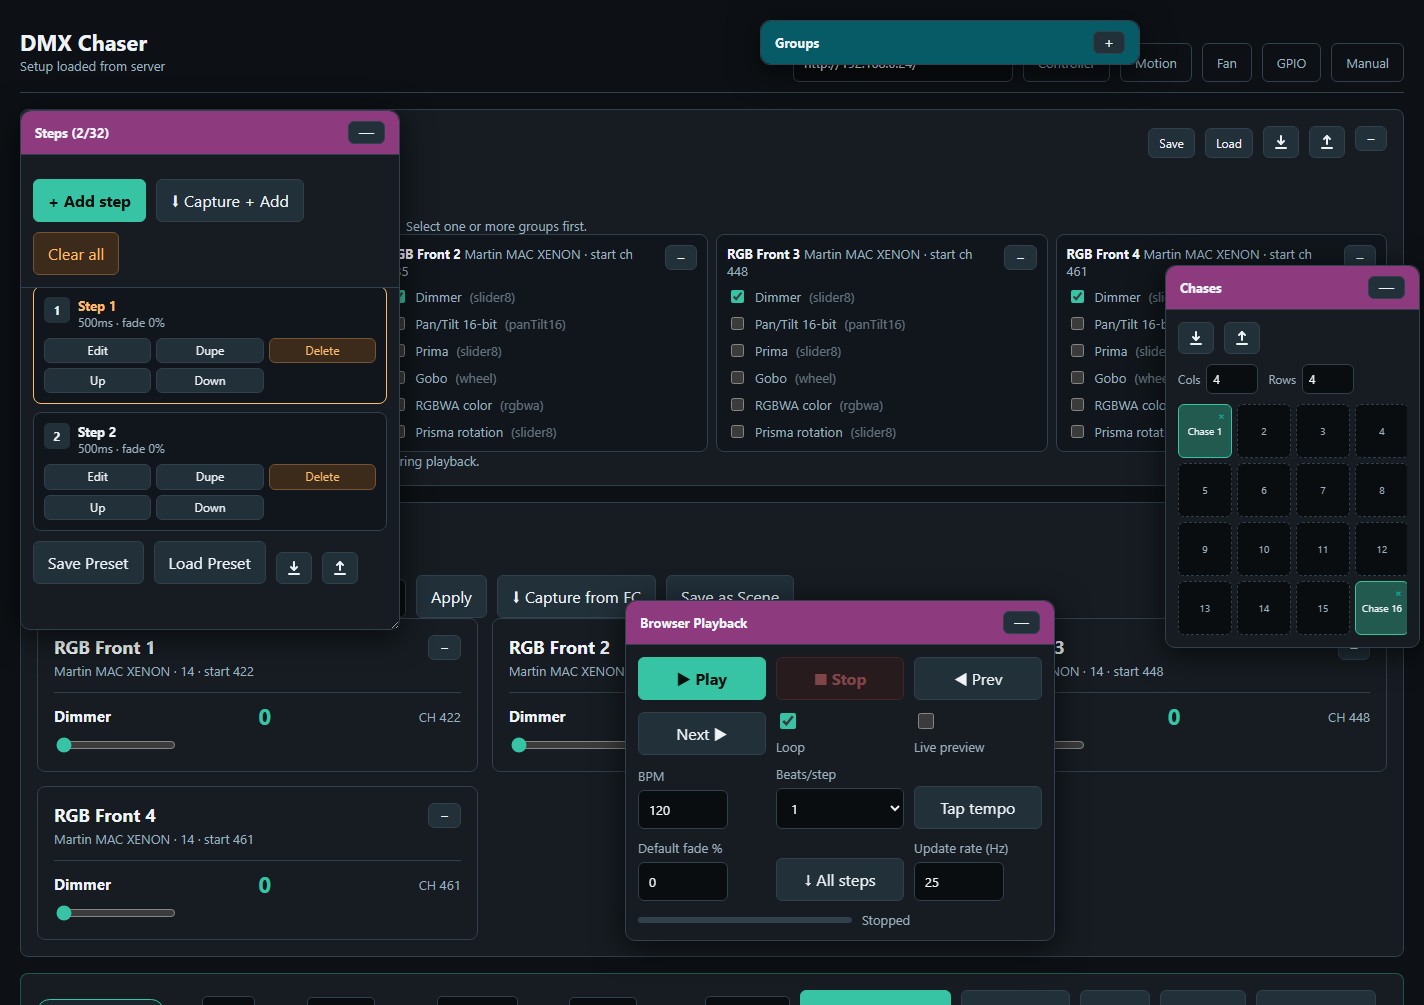
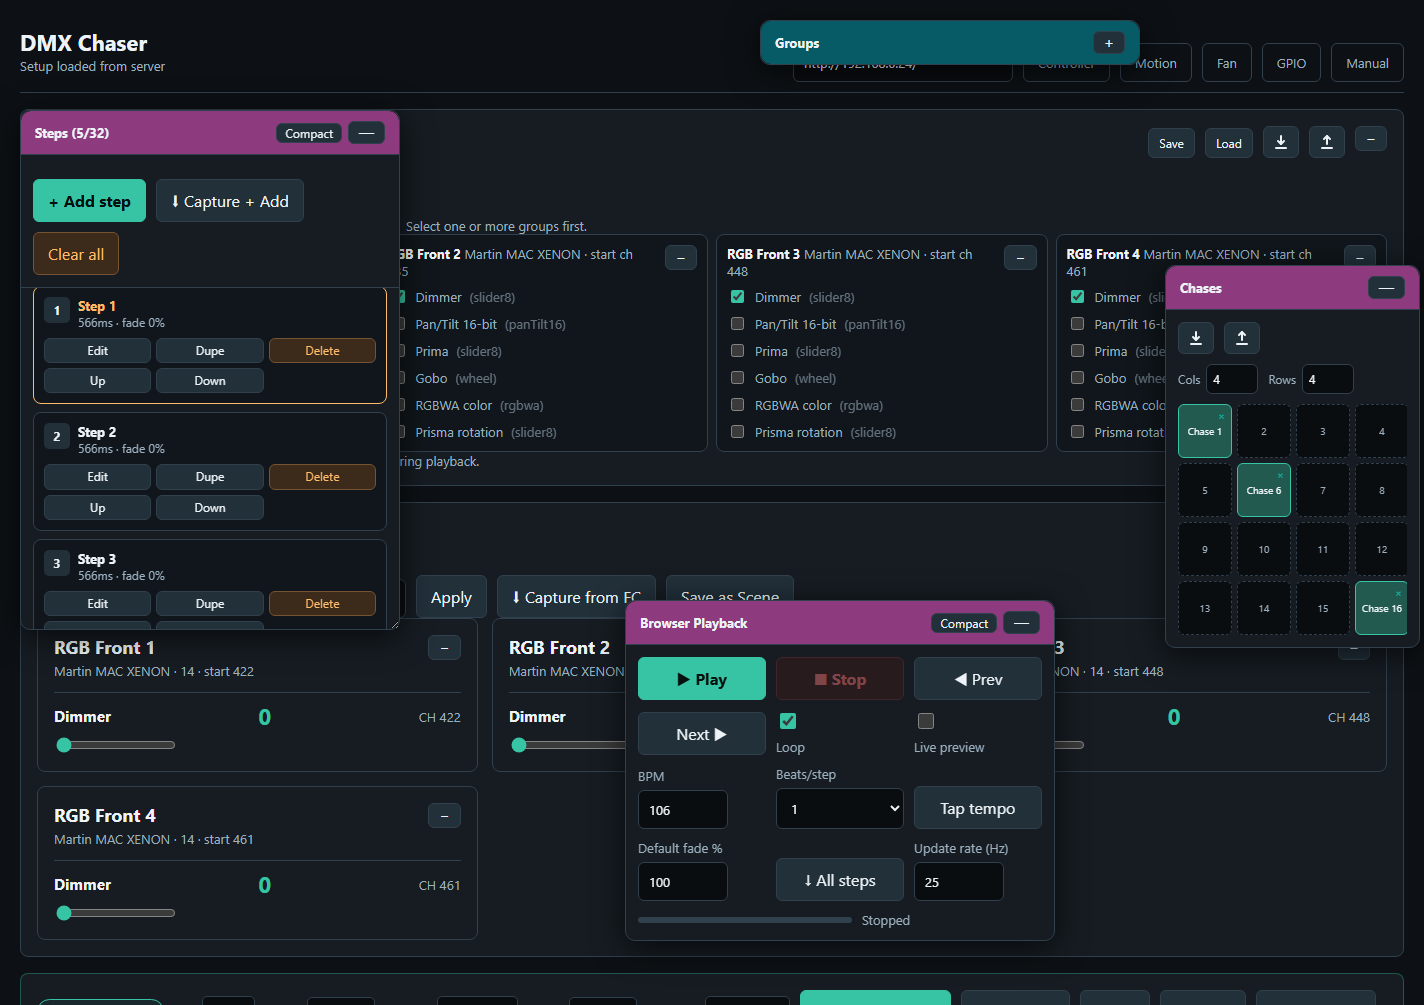
compact mode, update docu

diff --git a/web/dmx_chaser.html b/web/dmx_chaser.html
@@ -43,7 +43,7 @@ input[type=color]{width:44px;height:36px;padding:2px;background:#0a0d10;border:1
 #browserPlaybackBox .scene-toolbox__body{max-height:calc(100vh - 150px);overflow:auto}
 #browserPlaybackBox .toolbar{display:grid;grid-template-columns:repeat(auto-fit,minmax(120px,1fr));align-items:end}
 .chaser-toolbox-actions{display:flex;gap:6px;align-items:center}
-.chaser-collapse-all{padding:3px 8px;font-size:12px;line-height:1;min-width:32px}
+.chaser-collapse-all{padding:3px 8px;font-size:12px;line-height:1;min-width:64px}
 #participationList{display:grid;grid-template-columns:repeat(auto-fit,minmax(220px,1fr));gap:8px}
 #stepList{display:grid;grid-template-columns:repeat(auto-fit,minmax(220px,1fr));gap:8px}
 .progress-bar{height:6px;background:var(--line);border-radius:3px;overflow:hidden;flex:1}
@@ -137,7 +137,7 @@ input[type=color]{width:44px;height:36px;padding:2px;background:#0a0d10;border:1
     <div id="stepsBoxHdr" class="scene-toolbox__header">
       <span style="font-weight:700;font-size:13px">Steps (<span id="stepCount">0</span>/<span id="stepMax">32</span>)</span>
       <div class="chaser-toolbox-actions">
-        <button class="chaser-collapse-all" data-anchor-box="stepsBox" title="Toggle compact Steps and Browser Playback boxes">All</button>
+        <button class="chaser-collapse-all" data-anchor-box="stepsBox" title="Toggle compact layout for Steps and Browser Playback">Compact</button>
         <button id="stepsBoxToggle" class="scene-toolbox__toggle">—</button>
       </div>
     </div>
@@ -162,7 +162,7 @@ input[type=color]{width:44px;height:36px;padding:2px;background:#0a0d10;border:1
     <div id="browserPlaybackBoxHdr" class="scene-toolbox__header">
       <span style="font-weight:700;font-size:13px">Browser Playback</span>
       <div class="chaser-toolbox-actions">
-        <button class="chaser-collapse-all" data-anchor-box="browserPlaybackBox" title="Toggle compact Steps and Browser Playback boxes">All</button>
+        <button class="chaser-collapse-all" data-anchor-box="browserPlaybackBox" title="Toggle compact layout for Steps and Browser Playback">Compact</button>
         <button id="browserPlaybackBoxToggle" class="scene-toolbox__toggle">—</button>
       </div>
     </div>
@@ -1544,6 +1544,42 @@ function restoreChaserCompactState(saved){
   localStorage.removeItem('chaserCompactState');
   DmxCommon.saveUiState('chaser','chaserCompactState',null);
 }
+function exitChaserCompactModeWithCurrentLayout(){
+  let saved=null;
+  try{saved=JSON.parse(localStorage.getItem('chaserCompactState')||'null');}catch(_){}
+  if(!saved)return;
+  chaserCompactBoxes.forEach(cfg=>{
+    const box=document.getElementById(cfg.id);
+    if(!box)return;
+    saveToolboxPosition(cfg,{x:parseInt(box.style.left)||box.offsetLeft||0,y:parseInt(box.style.top)||box.offsetTop||0});
+    DmxCommon.saveUiState('chaser',cfg.collapsedKey,box.classList.contains('collapsed'));
+  });
+  localStorage.removeItem('chaserCompactState');
+  DmxCommon.saveUiState('chaser','chaserCompactState',null);
+}
+function moveOtherCompactBoxBelowOpened(openedId){
+  const openedCfg=chaserCompactBoxes.find(cfg=>cfg.id===openedId);
+  const otherCfg=chaserCompactBoxes.find(cfg=>cfg.id!==openedId);
+  const opened=document.getElementById(openedCfg?.id);
+  const other=document.getElementById(otherCfg?.id);
+  if(!opened||!other||!otherCfg)return;
+  const ar=opened.getBoundingClientRect();
+  const or=other.getBoundingClientRect();
+  if(!rectsOverlap(ar,or))return;
+  const gap=8;
+  let x=ar.left;
+  let y=ar.bottom+gap;
+  if(y+other.offsetHeight>window.innerHeight)y=ar.top-other.offsetHeight-gap;
+  const pos={
+    x:Math.max(0,Math.min(window.innerWidth-other.offsetWidth,Math.round(x))),
+    y:Math.max(0,Math.min(window.innerHeight-other.offsetHeight,Math.round(y)))
+  };
+  saveToolboxPosition(otherCfg,pos);
+}
+function exitChaserCompactModeAfterOpening(openedId){
+  moveOtherCompactBoxBelowOpened(openedId);
+  exitChaserCompactModeWithCurrentLayout();
+}
 function toggleChaserCompact(anchorId){
   let saved=null;
   try{saved=JSON.parse(localStorage.getItem('chaserCompactState')||'null');}catch(_){}
@@ -1564,6 +1600,17 @@ function toggleChaserCompact(anchorId){
   }
 }
 document.querySelectorAll('.chaser-collapse-all').forEach(btn=>btn.addEventListener('click',()=>toggleChaserCompact(btn.dataset.anchorBox)));
+['stepsBoxToggle','browserPlaybackBoxToggle'].forEach(toggleId=>{
+  const toggle=document.getElementById(toggleId);
+  if(!toggle)return;
+  toggle.addEventListener('click',()=>{
+    setTimeout(()=>{
+      const openedId=toggleId.replace('Toggle','');
+      const box=document.getElementById(openedId);
+      if(box&&!box.classList.contains('collapsed'))exitChaserCompactModeAfterOpening(openedId);
+    },80);
+  });
+});
 function initCompactPairDrag(){
   let drag=null;
   function compactActive(){

diff --git a/docs/user-manual-print.html b/docs/user-manual-print.html
@@ -270,7 +270,9 @@ strong { color: #ffffff; }
 <li><strong>Browser Playback</strong> runs the current chase from the browser for checking timing and fades before uploading to the Pico.</li>
 </ul>
 <p>Loading a chase from the <strong>Chases</strong> box updates the step list, participating controls, and the currently edited step together. If the chase contains steps, the participating controls are rebuilt from the values stored in the chase, so old fixture/group filters do not hide the controls used by that chase.</p>
-<p>The position, collapse state, and the Steps box size are stored by the server UI-state file, so the working layout survives reloads.</p>
+<p>The <strong>Compact</strong> button is only shown on <strong>Steps</strong> and <strong>Browser Playback</strong>. It switches those two boxes into a compact mode: the box whose <strong>Compact</strong> button was pressed stays in place, the other box is pulled next to it, and both boxes collapse to their headers. In compact mode, dragging either header moves both boxes together as one pair. Press <strong>Compact</strong> again to restore their previous positions and reopen both boxes.</p>
+<p>The <strong>Chases</strong> box stays independent and does not have a <strong>Compact</strong> button.</p>
+<p>The position, collapse state, compact-pair state, and the Steps box size are stored by the server UI-state file, so the working layout survives reloads.</p>
 <h3 id="participating-controls">Participating Controls</h3>
 <p>Participating controls define which fixture controls belong to the chase. This keeps the chaser from editing unrelated channels.</p>
 <p>For example, a dimmer chase might include only dimmer controls. A color chase might include only RGB or RGBWA controls.</p>

diff --git a/docs/user-manual.html b/docs/user-manual.html
@@ -270,7 +270,9 @@ strong { color: #ffffff; }
 <li><strong>Browser Playback</strong> runs the current chase from the browser for checking timing and fades before uploading to the Pico.</li>
 </ul>
 <p>Loading a chase from the <strong>Chases</strong> box updates the step list, participating controls, and the currently edited step together. If the chase contains steps, the participating controls are rebuilt from the values stored in the chase, so old fixture/group filters do not hide the controls used by that chase.</p>
-<p>The position, collapse state, and the Steps box size are stored by the server UI-state file, so the working layout survives reloads.</p>
+<p>The <strong>Compact</strong> button is only shown on <strong>Steps</strong> and <strong>Browser Playback</strong>. It switches those two boxes into a compact mode: the box whose <strong>Compact</strong> button was pressed stays in place, the other box is pulled next to it, and both boxes collapse to their headers. In compact mode, dragging either header moves both boxes together as one pair. Press <strong>Compact</strong> again to restore their previous positions and reopen both boxes.</p>
+<p>The <strong>Chases</strong> box stays independent and does not have a <strong>Compact</strong> button.</p>
+<p>The position, collapse state, compact-pair state, and the Steps box size are stored by the server UI-state file, so the working layout survives reloads.</p>
 <h3 id="participating-controls">Participating Controls</h3>
 <p>Participating controls define which fixture controls belong to the chase. This keeps the chaser from editing unrelated channels.</p>
 <p>For example, a dimmer chase might include only dimmer controls. A color chase might include only RGB or RGBWA controls.</p>

diff --git a/docs/user-manual.md b/docs/user-manual.md
@@ -207,9 +207,9 @@ The Chaser page uses several floating boxes:
 
 Loading a chase from the **Chases** box updates the step list, participating controls, and the currently edited step together. If the chase contains steps, the participating controls are rebuilt from the values stored in the chase, so old fixture/group filters do not hide the controls used by that chase.
 
-The **All** button is only shown on **Steps** and **Browser Playback**. It switches those two boxes into a compact mode: the box whose **All** button was pressed stays in place, the other box is pulled next to it, and both boxes collapse to their headers. In compact mode, dragging either header moves both boxes together as one pair. Press **All** again to restore their previous positions and reopen both boxes.
+The **Compact** button is only shown on **Steps** and **Browser Playback**. It switches those two boxes into a compact mode: the box whose **Compact** button was pressed stays in place, the other box is pulled next to it, and both boxes collapse to their headers. In compact mode, dragging either header moves both boxes together as one pair. Press **Compact** again to restore their previous positions and reopen both boxes.
 
-The **Chases** box stays independent and does not have an **All** button.
+The **Chases** box stays independent and does not have a **Compact** button.
 
 The position, collapse state, compact-pair state, and the Steps box size are stored by the server UI-state file, so the working layout survives reloads.
 